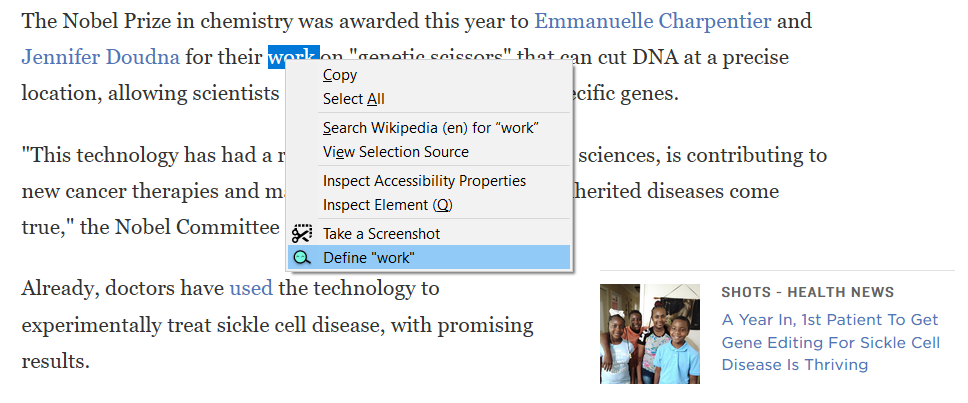
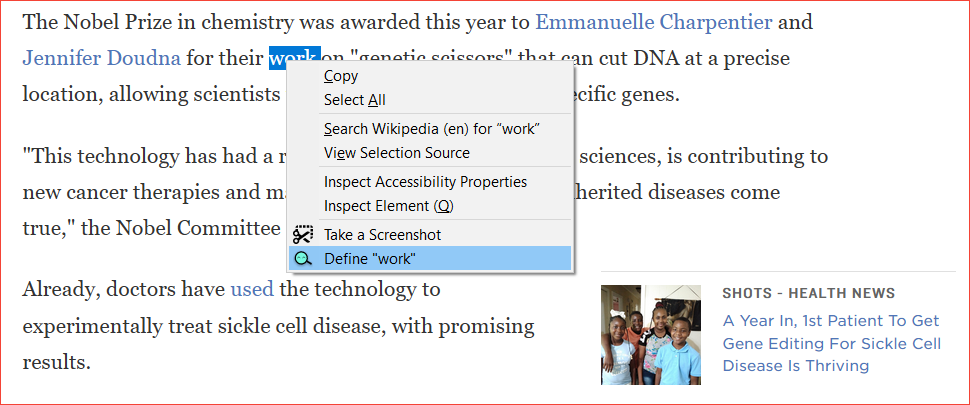
Add borders to demos

diff --git a/readme.md b/readme.md
@@ -2,11 +2,11 @@
 
 > Browser extension that enables definition searches for highlighted terms via right-click context menu
 
-### Tech
+## Tech
 
 **TapeWord was developed and is maintained within the [Ubuntu 18.04.5 LTS](https://releases.ubuntu.com/18.04/) operating system, and requires [npm](https://github.com/npm/cli) to run the build script.**
 
-TapeWord is built with the following open-source tools as _dev-dependencies_:
+The following open-source tools are used as _dev-dependencies_:
 
 - [TypeScript](https://github.com/microsoft/TypeScript) - a superset of JavaScript that compiles to clean JavaScript output
 - [webextension-polyfill-ts](https://github.com/Lusito/webextension-polyfill-ts) - a TypeScript ready "wrapper" for the WebExtension browser API Polyfill by Mozilla
@@ -20,7 +20,7 @@ TapeWord is built with the following open-source tools as _dev-dependencies_:
 - [webpack-dev-server](https://github.com/webpack/webpack-dev-server) - serves a webpack app and updates the browser on changes
 - [webpack-extension-reloader](https://github.com/rubenspgcavalcante/webpack-extension-reloader) - a webpack plugin to automatically reload browser extensions during development
 
-### Build/Installation
+## Build/Installation
 
 Clone and enter the root directory of this repository
 
@@ -40,18 +40,16 @@ There should now be a new directory `dist/` in the root directory, with the mini
 
 - Please note- the recommended method of installing the extension is **directly** through the Firefox/Chrome marketplace (link to be provided here when available :)
 
-### Usage
+## Usage
 
-Once installed and activated, simply right-click on a highlighted term while web-browsing for the option to search its definition:
+Once installed and activated, simply right-click on a highlighted term while web-browsing to search its definition, and click anywhere outside the TapeWord area to exit:
 
 ![context-menu](demo_assets/TapeWord-demo_menu.png)
 ![definition](demo_assets/TapeWord-demo_definition.png)
 
-Simply click anywhere outside the TapeWord area to exit.
-
 ---
 
-### MIT License
+## MIT License
 
 Copyright (c) 2020 kvnkm
 
